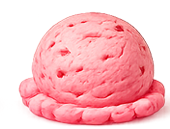
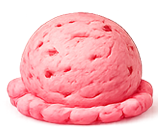
commit
Resized cup image. Cleaned up functions (put all the add flavor scoop functions into one addScoop function). Added the strawberry flavor scoop. Created a string array to check if the order is correct in the future.

Changed region(s): [[0.0253, 0.093, 0.9873, 0.9922], [0.3291, 0.2481, 0.3544, 0.2791]]

diff --git a/Assignments/Final Capstone Project/sketch.js b/Assignments/Final Capstone Project/sketch.js
@@ -11,8 +11,10 @@ strawberry, vanilla, cone, cup;
 let vertices = [];
 let verticesV = [];
 let verticesChoco = [];
+let verticesStraw = [];
 let order = [];
 let correctOrder = [];
+let orderString = [];
 let px, py;
 let scoopNum;
 let coneOrCup;
@@ -50,6 +52,11 @@ function setup() {
   verticesChoco.push(createVector(770, 583));
   verticesChoco.push(createVector(769, 715));
   verticesChoco.push(createVector(500, 715));
+
+  verticesStraw.push(createVector(800, 580));
+  verticesStraw.push(createVector(1030, 580));
+  verticesStraw.push(createVector(1065, 715));
+  verticesStraw.push(createVector(800, 715));
   generateOrder();
 }
 
@@ -60,8 +67,9 @@ function draw() {
   writeOrder(mouseX, mouseY, 493, 360, 100, 25);
   addCone(vertices, mouseX, mouseY);
   addCup(mouseX, mouseY, width-90, height-300, 90, 200);
-  addVanilla(verticesV, mouseX, mouseY);
-  addChocolate(verticesChoco, mouseX,mouseY);
+  addScoop(verticesV, mouseX, mouseY);
+  addScoop(verticesChoco, mouseX,mouseY);
+  addScoop(verticesStraw, mouseX, mouseY);
   drawOrder();
 }
 
@@ -69,7 +77,7 @@ function generateOrder(){
   scoopNum = Math.round(random(0.5, 3.5));
   coneOrCup = random(["cone", "cup"]);
   correctOrder[0] = coneOrCup;
-
+  
   if(scoopNum >= 1){
     let flavor1 = random(["Bubblegum", "Butter Pecan", "Chocolate", "Cookies&Cream", "Mango Sorbet", "Mint Chip", "Strawberry", "Vanilla"]);
     correctOrder[1] = flavor1;
@@ -89,21 +97,34 @@ function drawOrder(){
     image(cone, width/2+150, height/2-355);
     }
   else if(container === 2){
-    image(cup, width/2+100, height/2-240);
+    image(cup, width/2+143, height/2-203);
   }
-  for(let i = 1; i < order.length; i++){
-    if(i === 1 && container === 1){
+  for(let i = 0; i < order.length; i++){
+    if(i === 0 && container === 1){
       image(order[i], width/2+195, height/2-309);
     }
     
-    if(i === 2 && container === 1){
+    if(i === 1 && container === 1){
       image(order[i], width/2+195, height/2-374);
     }
 
-    if(i === 3 && container === 1){
+    if(i === 2 && container === 1){
       image(order[i], width/2+195, height/2-435);
     }
-  } 
+ 
+
+    if(i === 0 && container === 2){
+        image(order[i], width/2+195, height/2-243);
+      }
+    
+    if(i === 1 && container === 2){
+      image(order[i], width/2+195, height/2-294);
+    }
+
+    if(i === 2 && container === 2){
+      image(order[i], width/2+195, height/2-345);
+    }
+  }
 }
 
 function writeOrder(px, py, rx, ry, rw, rh){
@@ -139,9 +160,9 @@ function writeOrder(px, py, rx, ry, rw, rh){
 
 
 function addCone(vertices, px, py){
-  noFill();
-  noStroke();
-  quad(0, height/2-25, 50, height/2-33, 105, height/2+200, 0, height/2+205);
+  //noFill();
+  //noStroke();
+  //quad(0, height/2-25, 50, height/2-33, 105, height/2+200, 0, height/2+205);
 
   let collision = false;
   let next = 0;
@@ -162,7 +183,7 @@ function addCone(vertices, px, py){
 function addCup(px, py, rx, ry, rw, rh){
   noFill();
   noStroke();
-  rect(rx, ry, rw, rh);
+  //rect(rx, ry, rw, rh);
   if (px >= rx &&        // right of the left edge AND
       px <= rx + rw &&   // left of the right edge AND
       py >= ry &&        // below the top AND
@@ -172,10 +193,10 @@ function addCup(px, py, rx, ry, rw, rh){
   else return false;
 }
 
-function addVanilla(vertices, px, py){
-  noFill();
-  noStroke();
-  quad(295, 580, 520, 580, 469, 715, 215, 715);
+function addScoop(vertices, px, py){
+  //noFill();
+ // noStroke();
+  //quad(295, 580, 520, 580, 469, 715, 215, 715);
 
   let collision = false;
   let next = 0;
@@ -192,38 +213,23 @@ function addVanilla(vertices, px, py){
   //print(collision);
   return collision;
 }
-
-function addChocolate(vertices, px, py){
-  noFill();
-  noStroke();
-  quad(555, 583, 770, 583, 769, 715, 500, 715);
-
-  let collision = false;
-  let next = 0;
-  for(let current = 0; current < vertices.length; current++){
-    next = current +1;
-    if(next === vertices.length) next = 0;
-    let vc = vertices[current];
-    let vn = vertices[next];
-
-    if(((vc.y >= py && vn.y < py) || (vc.y < py && vn.y >= py)) && (px < (vn.x - vc.x)*(py-vc.y)/(vn.y-vc.y) + vc.x)){
-      collision = !collision;
-    }
-  }
-  //print(collision);
-  return collision;
-}
-
 
 
 
 function mousePressed(){
-  if(addChocolate(verticesChoco, mouseX, mouseY)){
-    order.push(chocolate);
+  if(addScoop(verticesStraw, mouseX, mouseY)){
+    order.push(strawberry);
+    orderString.push("Strawberry");
   }
 
-  if(addVanilla(verticesV, mouseX, mouseY)){
+  if(addScoop(verticesChoco, mouseX, mouseY)){
+    order.push(chocolate);
+    orderString.push("Chocolate")
+  }
+
+  if(addScoop(verticesV, mouseX, mouseY)){
     order.push(vanilla);
+    orderString.push("Vanilla");
   }
 
   if(writeOrder(mouseX, mouseY, 493, 360, 100, 25)){
@@ -232,11 +238,11 @@ function mousePressed(){
 
   if(addCone(vertices, mouseX, mouseY)){
     container = 1;
-    order[0] = 1;
+    orderString[0] = "cone";
   }
 
   if(addCup(mouseX, mouseY, width-90, height-300, 90, 200)){
     container = 2;
-    order[0] = 2;
+    orderString[0] = "cup";
   }
 }
